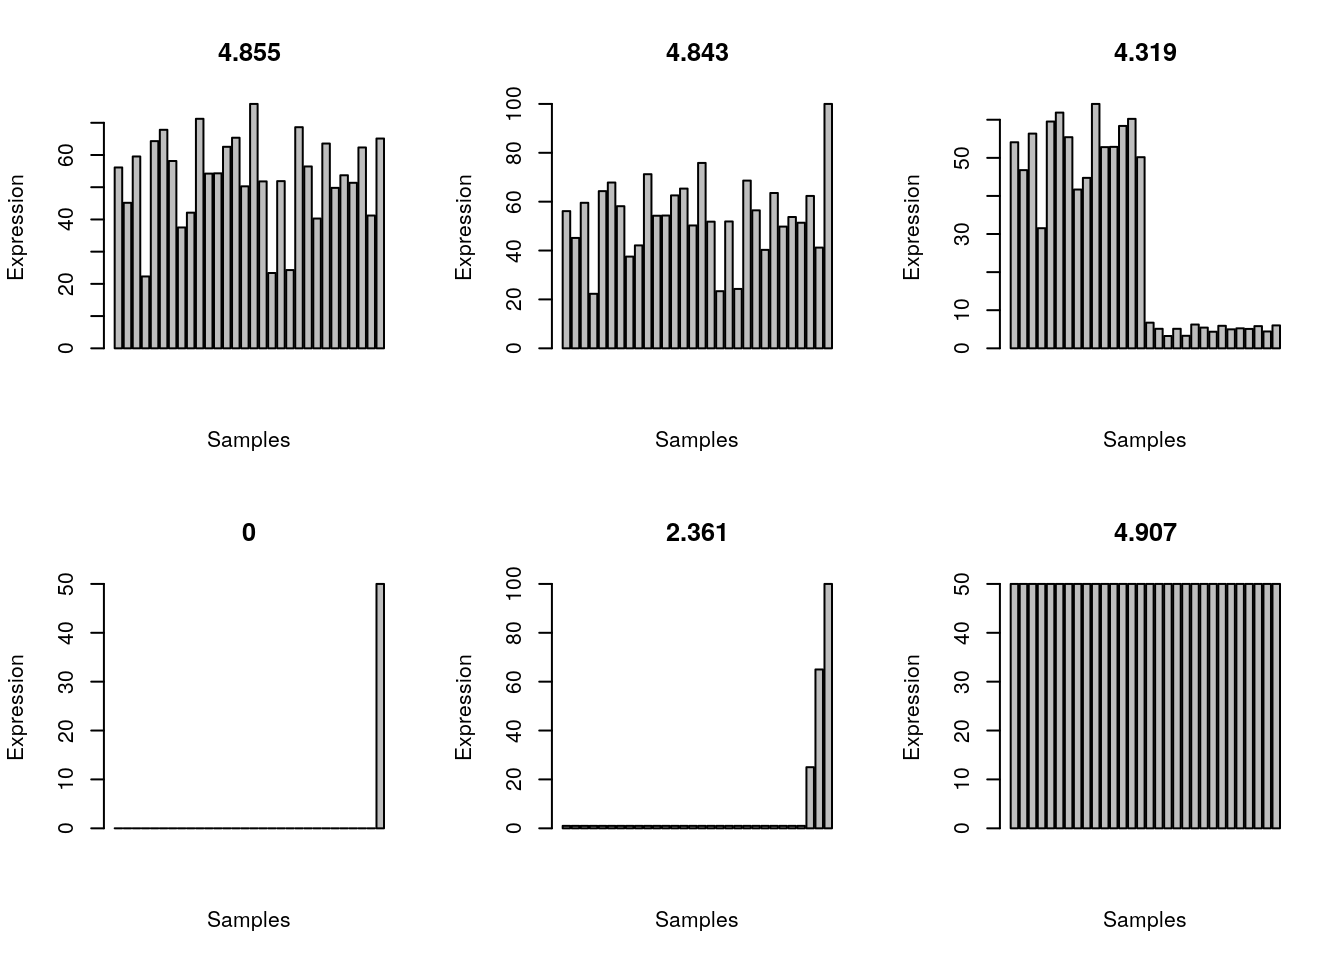
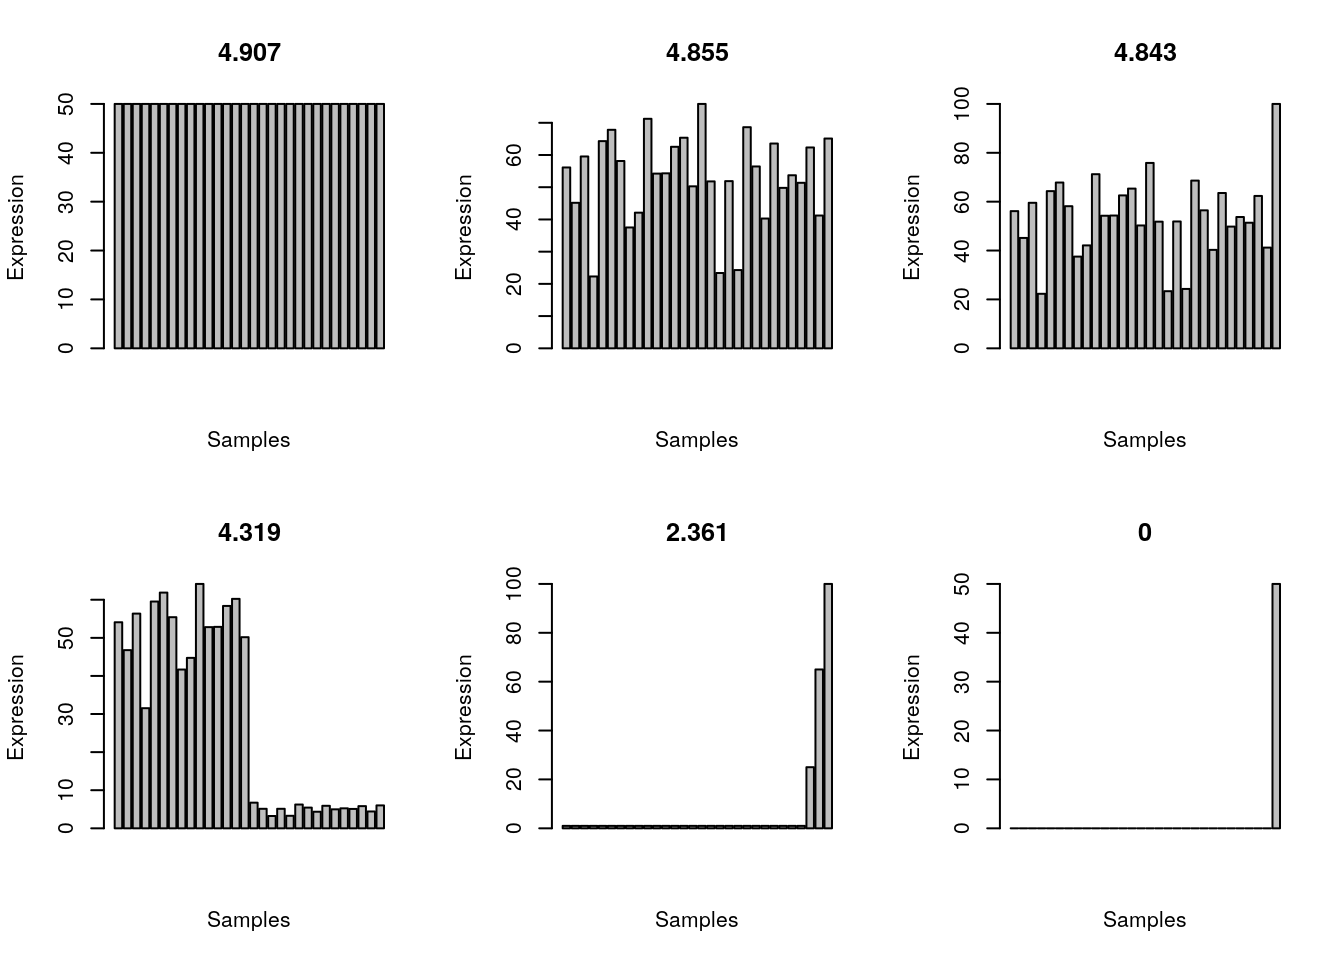
Build site.

diff --git a/docs/tissue.html b/docs/tissue.html
@@ -10,11 +10,11 @@
 
 
 
-<meta name="date" content="2023-10-11" />
+<meta name="date" content="2023-10-13" />
 
 <title>Tissue specificity</title>
 
-<script src="site_libs/header-attrs-2.22/header-attrs.js"></script>
+<script src="site_libs/header-attrs-2.25/header-attrs.js"></script>
 <script src="site_libs/jquery-3.6.0/jquery-3.6.0.min.js"></script>
 <meta name="viewport" content="width=device-width, initial-scale=1" />
 <link href="site_libs/bootstrap-3.3.5/css/cosmo.min.css" rel="stylesheet" />
@@ -36,8 +36,8 @@
 <script src="site_libs/navigation-1.1/tabsets.js"></script>
 <link href="site_libs/highlightjs-9.12.0/textmate.css" rel="stylesheet" />
 <script src="site_libs/highlightjs-9.12.0/highlight.js"></script>
-<link href="site_libs/font-awesome-6.4.0/css/all.min.css" rel="stylesheet" />
-<link href="site_libs/font-awesome-6.4.0/css/v4-shims.min.css" rel="stylesheet" />
+<link href="site_libs/font-awesome-6.4.2/css/all.min.css" rel="stylesheet" />
+<link href="site_libs/font-awesome-6.4.2/css/v4-shims.min.css" rel="stylesheet" />
 
 <link rel="icon" href="https://github.com/workflowr/workflowr-assets/raw/main/img/reproducible.png">
 <!-- Add a small amount of space between sections. -->
@@ -359,7 +359,7 @@ div.tocify {
 
 
 <h1 class="title toc-ignore">Tissue specificity</h1>
-<h4 class="date">2023-10-11</h4>
+<h4 class="date">2023-10-13</h4>
 
 </div>
 
@@ -388,7 +388,7 @@ class="glyphicon glyphicon-ok text-success" aria-hidden="true"></span>
 <div class="tab-content">
 <div id="summary" class="tab-pane fade in active">
 <p>
-<strong>Last updated:</strong> 2023-10-11
+<strong>Last updated:</strong> 2023-10-13
 </p>
 <p>
 <strong>Checks:</strong> <span
@@ -406,7 +406,7 @@ title="This is the local directory in which the code in this file was executed."
 This reproducible <a href="https://rmarkdown.rstudio.com">R Markdown</a>
 analysis was created with <a
   href="https://github.com/workflowr/workflowr">workflowr</a> (version
-1.7.0). The <em>Checks</em> tab describes the reproducibility checks
+1.7.1). The <em>Checks</em> tab describes the reproducibility checks
 that were applied when the results were created. The <em>Past
 versions</em> tab lists the development history.
 </p>
@@ -519,15 +519,15 @@ project makes it easier to run your code on other machines.</p>
 <div class="panel panel-default">
 <div class="panel-heading">
 <p class="panel-title">
-<a data-toggle="collapse" data-parent="#workflowr-checks" href="#strongRepositoryversionstrongahrefhttpsgithubcomdavetangmusetree803f3bab86028ee56611b7104c099bb17be2f12etargetblank803f3baa">
+<a data-toggle="collapse" data-parent="#workflowr-checks" href="#strongRepositoryversionstrongahrefhttpsgithubcomdavetangmusetreecb62ae5a1205ae373528a64966fa674be54204d2targetblankcb62ae5a">
 <span class="glyphicon glyphicon-ok text-success"
 aria-hidden="true"></span> <strong>Repository version:</strong>
-<a href="https://github.com/davetang/muse/tree/803f3bab86028ee56611b7104c099bb17be2f12e" target="_blank">803f3ba</a>
+<a href="https://github.com/davetang/muse/tree/cb62ae5a1205ae373528a64966fa674be54204d2" target="_blank">cb62ae5</a>
 </a>
 </p>
 </div>
 <div
[2 lines of base64/hex data omitted]
 class="panel-collapse collapse">
 <div class="panel-body">
 <p>
@@ -537,7 +537,7 @@ reproducibility.
 </p>
 <p>
 The results in this page were generated with repository version
-<a href="https://github.com/davetang/muse/tree/803f3bab86028ee56611b7104c099bb17be2f12e" target="_blank">803f3ba</a>.
+<a href="https://github.com/davetang/muse/tree/cb62ae5a1205ae373528a64966fa674be54204d2" target="_blank">cb62ae5</a>.
 See the <em>Past versions</em> tab to see a history of the changes made
 to the R Markdown and HTML files.
 </p>
@@ -555,6 +555,7 @@ Ignored files:
     Ignored:    .Rhistory
     Ignored:    .Rproj.user/
     Ignored:    r_packages_4.3.0/
+    Ignored:    r_packages_4.3.1/
 
 Untracked files:
     Untracked:  analysis/cell_ranger.Rmd
@@ -618,6 +619,40 @@ Message
 </tr>
 </thead>
 <tbody>
+<tr>
+<td>
+Rmd
+</td>
+<td>
+<a href="https://github.com/davetang/muse/blob/cb62ae5a1205ae373528a64966fa674be54204d2/analysis/tissue.Rmd" target="_blank">cb62ae5</a>
+</td>
+<td>
+Dave Tang
+</td>
+<td>
+2023-10-13
+</td>
+<td>
+Compare different metrics
+</td>
+</tr>
+<tr>
+<td>
+html
+</td>
+<td>
+<a href="https://rawcdn.githack.com/davetang/muse/8dfc41d349115963d6fa5c866621ead51cba0f0d/docs/tissue.html" target="_blank">8dfc41d</a>
+</td>
+<td>
+Dave Tang
+</td>
+<td>
+2023-10-11
+</td>
+<td>
+Build site.
+</td>
+</tr>
 <tr>
 <td>
 Rmd
@@ -853,7 +888,8 @@ shannon.entropy(all_gene_equal)</code></pre>
 }
 
 par(mfrow=c(2,3))
-sapply(list(all_gene, all_gene_one_higher, half_gene, one_gene, three_gene, all_gene_equal), plot_entropy)</code></pre>
+examples &lt;- list(all_gene_equal, all_gene, all_gene_one_higher, half_gene, three_gene, one_gene)
+invisible(sapply(examples, plot_entropy))</code></pre>
 <p><img src="figure/tissue.Rmd/plot_entropy-1.png" width="672" style="display: block; margin: auto;" /></p>
 <p>
 <button type="button" class="btn btn-default btn-xs btn-workflowr btn-workflowr-fig" data-toggle="collapse" data-target="#fig-plot_entropy-1">
@@ -892,61 +928,100 @@ Dave Tang
 </table>
 </div>
 </div>
-<pre><code>      [,1] [,2] [,3] [,4] [,5] [,6]
- [1,]  0.7  0.7  0.7  0.7  0.7  0.7
- [2,]  1.9  1.9  1.9  1.9  1.9  1.9
- [3,]  3.1  3.1  3.1  3.1  3.1  3.1
- [4,]  4.3  4.3  4.3  4.3  4.3  4.3
- [5,]  5.5  5.5  5.5  5.5  5.5  5.5
- [6,]  6.7  6.7  6.7  6.7  6.7  6.7
- [7,]  7.9  7.9  7.9  7.9  7.9  7.9
- [8,]  9.1  9.1  9.1  9.1  9.1  9.1
- [9,] 10.3 10.3 10.3 10.3 10.3 10.3
-[10,] 11.5 11.5 11.5 11.5 11.5 11.5
-[11,] 12.7 12.7 12.7 12.7 12.7 12.7
-[12,] 13.9 13.9 13.9 13.9 13.9 13.9
-[13,] 15.1 15.1 15.1 15.1 15.1 15.1
-[14,] 16.3 16.3 16.3 16.3 16.3 16.3
-[15,] 17.5 17.5 17.5 17.5 17.5 17.5
-[16,] 18.7 18.7 18.7 18.7 18.7 18.7
-[17,] 19.9 19.9 19.9 19.9 19.9 19.9
-[18,] 21.1 21.1 21.1 21.1 21.1 21.1
-[19,] 22.3 22.3 22.3 22.3 22.3 22.3
-[20,] 23.5 23.5 23.5 23.5 23.5 23.5
-[21,] 24.7 24.7 24.7 24.7 24.7 24.7
-[22,] 25.9 25.9 25.9 25.9 25.9 25.9
-[23,] 27.1 27.1 27.1 27.1 27.1 27.1
-[24,] 28.3 28.3 28.3 28.3 28.3 28.3
-[25,] 29.5 29.5 29.5 29.5 29.5 29.5
-[26,] 30.7 30.7 30.7 30.7 30.7 30.7
-[27,] 31.9 31.9 31.9 31.9 31.9 31.9
-[28,] 33.1 33.1 33.1 33.1 33.1 33.1
-[29,] 34.3 34.3 34.3 34.3 34.3 34.3
-[30,] 35.5 35.5 35.5 35.5 35.5 35.5</code></pre>
 </div>
 <div id="other-tissue-specificity-metrics" class="section level2">
 <h2>Other tissue specificity metrics</h2>
-<p><a href="https://www.ncbi.nlm.nih.gov/pmc/articles/PMC5444245/">A
-benchmark of gene expression tissue-specificity metrics</a>.</p>
+<p>Metrics and code from <a
+href="https://www.ncbi.nlm.nih.gov/pmc/articles/PMC5444245/">A benchmark
+of gene expression tissue-specificity metrics</a>.</p>
 <p>Tau:</p>
 <p><span class="math display">\[ \tau = \frac{\sum_{i=1}^n (1 - \widehat
 x_i)}{n-1}; \widehat x_i = \frac{x_i}{\max_{1\le i \le n}
 (x_i)}\]</span></p>
+<p>Implementation in R.</p>
+<pre class="r"><code>tau &lt;- function(x){
+  x &lt;- (1-(x/max(x)))
+  res &lt;- sum(x, na.rm=TRUE)
+  res/(length(x)-1)
+}
+
+sapply(examples, tau)</code></pre>
+<pre><code>[1] 0.0000000 0.3114333 0.4739504 0.5681687 0.9596552 1.0000000</code></pre>
 <p>EE score (summary of the expression of all genes in tissue <span
 class="math inline">\(i\)</span>):</p>
 <p><span class="math display">\[ EE = \frac{x_i}{\sum^n_{i=1}x_i \times
 \frac{s_i}{\sum^n_{i=1} s_i}} = \frac{\sum^n_{i=1} s_i}{s_i} \times
 \frac{x_i}{\sum^n_{i=1}x_i}s_i \]</span></p>
+<p>No implementation yet as this metric requires expression data.</p>
 <p>TSI:</p>
 <p><span class="math display">\[ TSI = \frac{\max_{1 \le i \le
 n}(x_i)}{\sum^n_{i=1}x_i} \]</span></p>
+<p>Implementation in R.</p>
+<pre class="r"><code>tsi &lt;- function(x){
+  max(x) / sum(x)
+}
+
+sapply(examples, tsi)</code></pre>
+<pre><code>[1] 0.03333333 0.04769073 0.06151788 0.07394751 0.46082949 1.00000000</code></pre>
 <p>Gini coefficient, where <span class="math inline">\(x_i\)</span> has
 to be ordered from least to greatest:</p>
 <p><span class="math display">\[ Gini = \frac{n + 1}{n} - \frac{2
 \sum^n_{i=1} (n + 1 - i) x_i}{n \sum^n_{i=1}x_i} \]</span></p>
+<p>Implementation in R (the <code>gini</code> function is missing in the
+supplementary data of the paper and the loaded packages do not have this
+function, so it is unclear where <code>gini</code> is from.). There is a
+<code>gini</code> function in the <a
+href="https://cran.r-project.org/web/packages/reldist/index.html">reldist</a>
+package, which computes the Gini coefficient.</p>
+<pre class="r"><code>reldist::gini</code></pre>
+<pre><code>function (x, weights = rep(1, length = length(x))) 
+{
+    ox &lt;- order(x)
+    x &lt;- x[ox]
+    weights &lt;- weights[ox]/sum(weights)
+    p &lt;- cumsum(weights)
+    nu &lt;- cumsum(weights * x)
+    n &lt;- length(nu)
+    nu &lt;- nu/nu[n]
+    sum(nu[-1] * p[-n]) - sum(nu[-n] * p[-1])
+}
+&lt;bytecode: 0x5597500b1e80&gt;
+&lt;environment: namespace:reldist&gt;</code></pre>
+<p>Calculate Gini coefficients (using the <code>reldist</code> code) for
+the examples. (To save you from installing <code>reldist</code>, I’ve
+copied the code.)</p>
+<pre class="r"><code>gini &lt;- function (x, weights = rep(1, length = length(x))) {
+  # code is from the reldist package by Mark S. Handcock
+  # https://cran.r-project.org/web/packages/reldist/index.html
+  ox &lt;- order(x)
+  x &lt;- x[ox]
+  weights &lt;- weights[ox]/sum(weights)
+  p &lt;- cumsum(weights)
+  nu &lt;- cumsum(weights * x)
+  n &lt;- length(nu)
+  nu &lt;- nu/nu[n]
+  sum(nu[-1] * p[-n]) - sum(nu[-n] * p[-1])
+}
+
+sapply(examples, gini)</code></pre>
+<pre><code>[1] 0.0000000 0.1410784 0.1578373 0.4552432 0.7986175 0.9666667</code></pre>
 <p>Shannon entropy:</p>
 <p><span class="math display">\[ H_g = - \sum^n_{i=1} p_i \times
 log_2(p_i); p_i = \frac{x_i}{\sum^n_{i=1}x_i} \]</span></p>
+<p>Implementation in R.</p>
+<pre class="r"><code>hg &lt;- function(x, norm = FALSE){
+  p &lt;- x / sum(x)
+  res &lt;- -sum(p*log2(p), na.rm=TRUE)
+  if(norm){
+    res &lt;- 1 - (res/log2(length(p)))
+  }
+  res
+}
+
+sapply(examples, hg)</code></pre>
+<pre><code>[1] 4.906891 4.854579 4.842564 4.319041 2.360925 0.000000</code></pre>
+<pre class="r"><code>sapply(examples, hg, norm = TRUE)</code></pre>
+<pre><code>[1] 0.00000000 0.01066085 0.01310950 0.11980089 0.51885522 1.00000000</code></pre>
 <p>The z-score can be implemented in two ways: either only
 over-expressed genes are defined as tissue specific or the absolute
 distance from the mean is used, so that under-expressed genes are also
@@ -956,6 +1031,17 @@ defined as tissue specific.</p>
 <p>SPM:</p>
 <p><span class="math display">\[ SPM = \frac{x_i^2}{\sum^n_{i=1}x^2_i}
 \]</span></p>
+<p>Implementation in R.</p>
+<pre class="r"><code>spm &lt;- function(x, norm=TRUE){
+  res &lt;- x^2/sum(x^2)
+  if (norm){
+    res &lt;- max(res)
+  }
+  res
+}
+
+sapply(examples, spm)</code></pre>
+<pre><code>[1] 0.03333333 0.06404100 0.10458125 0.09543494 0.67217853 1.00000000</code></pre>
 <p>PEM estimates how different the expression of the gene is relative to
 an expected expression, under the assumption of uniform expression in
 all tissues. <span class="math inline">\(s_i\)</span> is the summary of
@@ -964,6 +1050,38 @@ class="math inline">\(i\)</span>.</p>
 <p><span class="math display">\[ PEM = log_{10} \left(
 \frac{\sum^n_{i=1}}{s_i} \times \frac{x_i}{\sum^n_{i=1} x_i} \right)
 \]</span></p>
+<p>No implementation yet as this metric requires expression data.</p>
+<div id="comparing-metrics" class="section level3">
+<h3>Comparing metrics</h3>
+<p>Compare the metrics.</p>
+<pre class="r"><code>my_metrics &lt;- data.frame(
+  eg = c(&#39;identical&#39;, &#39;all_exp&#39;, &#39;all_exp_one_higher&#39;, &#39;half_exp&#39;, &#39;three_exp&#39;, &#39;one_exp&#39;),
+  tau = sapply(examples, tau),
+  tsi = sapply(examples, tsi),
+  gini = sapply(examples, gini),
+  hg = sapply(examples, hg, norm=TRUE),
+  spm = sapply(examples, spm)
+)
+
+pivot_longer(my_metrics, -eg, names_to = &quot;metrics&quot;) |&gt;
+  mutate(eg = factor(eg, levels = unique(eg))) |&gt;
+  ggplot(data = _, aes(eg, value, group = metrics, colour = metrics)) +
+  geom_line() +
+  geom_point() +
+  theme_minimal()</code></pre>
+<p><img src="figure/tissue.Rmd/compare_metrics-1.png" width="672" style="display: block; margin: auto;" /></p>
+<p>Taking the average of all metrics.</p>
+<pre class="r"><code>my_metrics$mean &lt;- apply(my_metrics[, -1], 1, mean)
+my_metrics$median &lt;- apply(my_metrics[, -1], 1, median)
+
+pivot_longer(my_metrics, -eg, names_to = &quot;metrics&quot;) |&gt;
+  mutate(eg = factor(eg, levels = unique(eg))) |&gt;
+  ggplot(data = _, aes(eg, value, group = metrics, colour = metrics)) +
+  geom_line() +
+  geom_point() +
+  theme_minimal()</code></pre>
+<p><img src="figure/tissue.Rmd/consensus-1.png" width="672" style="display: block; margin: auto;" /></p>
+</div>
 </div>
 <div id="summary" class="section level2">
 <h2>Summary</h2>
@@ -981,9 +1099,9 @@ Session information
 </p>
 <div id="workflowr-sessioninfo" class="collapse">
 <pre class="r"><code>sessionInfo()</code></pre>
-<pre><code>R version 4.3.0 (2023-04-21)
+<pre><code>R version 4.3.1 (2023-06-16)
 Platform: x86_64-pc-linux-gnu (64-bit)
-Running under: Ubuntu 22.04.2 LTS
+Running under: Ubuntu 22.04.3 LTS
 
 Matrix products: default
 BLAS:   /usr/lib/x86_64-linux-gnu/openblas-pthread/libblas.so.3 
@@ -1004,20 +1122,37 @@ attached base packages:
 [1] stats     graphics  grDevices utils     datasets  methods   base     
 
 other attached packages:
-[1] workflowr_1.7.0
+ [1] lubridate_1.9.3 forcats_1.0.0   stringr_1.5.0   dplyr_1.1.3    
+ [5] purrr_1.0.2     readr_2.1.4     tidyr_1.3.0     tibble_3.2.1   
+ [9] ggplot2_3.4.3   tidyverse_2.0.0 workflowr_1.7.1
 
 loaded via a namespace (and not attached):
- [1] jsonlite_1.8.5   compiler_4.3.0   highr_0.10       promises_1.2.0.1
- [5] Rcpp_1.0.10      stringr_1.5.0    git2r_0.32.0     callr_3.7.3     
- [9] later_1.3.1      jquerylib_0.1.4  yaml_2.3.7       fastmap_1.1.1   
-[13] R6_2.5.1         knitr_1.43       tibble_3.2.1     rprojroot_2.0.3 
-[17] bslib_0.5.0      pillar_1.9.0     rlang_1.1.1      utf8_1.2.3      
-[21] cachem_1.0.8     stringi_1.7.12   httpuv_1.6.11    xfun_0.39       
-[25] getPass_0.2-2    fs_1.6.2         sass_0.4.6       cli_3.6.1       
-[29] magrittr_2.0.3   ps_1.7.5         digest_0.6.31    processx_3.8.1  
-[33] rstudioapi_0.14  lifecycle_1.0.3  vctrs_0.6.2      evaluate_0.21   
-[37] glue_1.6.2       whisker_0.4.1    fansi_1.0.4      rmarkdown_2.22  
-[41] httr_1.4.6       tools_4.3.0      pkgconfig_2.0.3  htmltools_0.5.5 </code></pre>
+ [1] gtable_0.3.4         QuickJSR_1.0.6       xfun_0.40           
+ [4] bslib_0.5.1          processx_3.8.2       inline_0.3.19       
+ [7] lattice_0.21-8       callr_3.7.3          tzdb_0.4.0          
+[10] vctrs_0.6.3          tools_4.3.1          ps_1.7.5            
+[13] densEstBayes_1.0-2.2 generics_0.1.3       parallel_4.3.1      
+[16] stats4_4.3.1         fansi_1.0.5          pkgconfig_2.0.3     
+[19] Matrix_1.5-4.1       RcppParallel_5.1.7   lifecycle_1.0.3     
+[22] farver_2.1.1         compiler_4.3.1       git2r_0.32.0        
+[25] munsell_0.5.0        codetools_0.2-19     getPass_0.2-2       
+[28] httpuv_1.6.11        htmltools_0.5.6.1    sass_0.4.7          
+[31] yaml_2.3.7           crayon_1.5.2         later_1.3.1         
+[34] pillar_1.9.0         jquerylib_0.1.4      whisker_0.4.1       
+[37] cachem_1.0.8         StanHeaders_2.26.28  nlme_3.1-162        
+[40] rstan_2.26.23        tidyselect_1.2.0     digest_0.6.33       
+[43] stringi_1.7.12       labeling_0.4.3       splines_4.3.1       
+[46] rprojroot_2.0.3      fastmap_1.1.1        grid_4.3.1          
+[49] colorspace_2.1-0     cli_3.6.1            magrittr_2.0.3      
+[52] loo_2.6.0            pkgbuild_1.4.2       reldist_1.7-2       
+[55] utf8_1.2.3           withr_2.5.1          prettyunits_1.2.0   
+[58] scales_1.2.1         promises_1.2.1       timechange_0.2.0    
+[61] rmarkdown_2.25       httr_1.4.7           matrixStats_1.0.0   
+[64] gridExtra_2.3        hms_1.1.3            evaluate_0.22       
+[67] knitr_1.44           mgcv_1.8-42          rstantools_2.3.1.1  
+[70] rlang_1.1.1          Rcpp_1.0.11          glue_1.6.2          
+[73] rstudioapi_0.15.0    jsonlite_1.8.7       R6_2.5.1            
+[76] fs_1.6.3            </code></pre>
 </div>
 </div>
 
